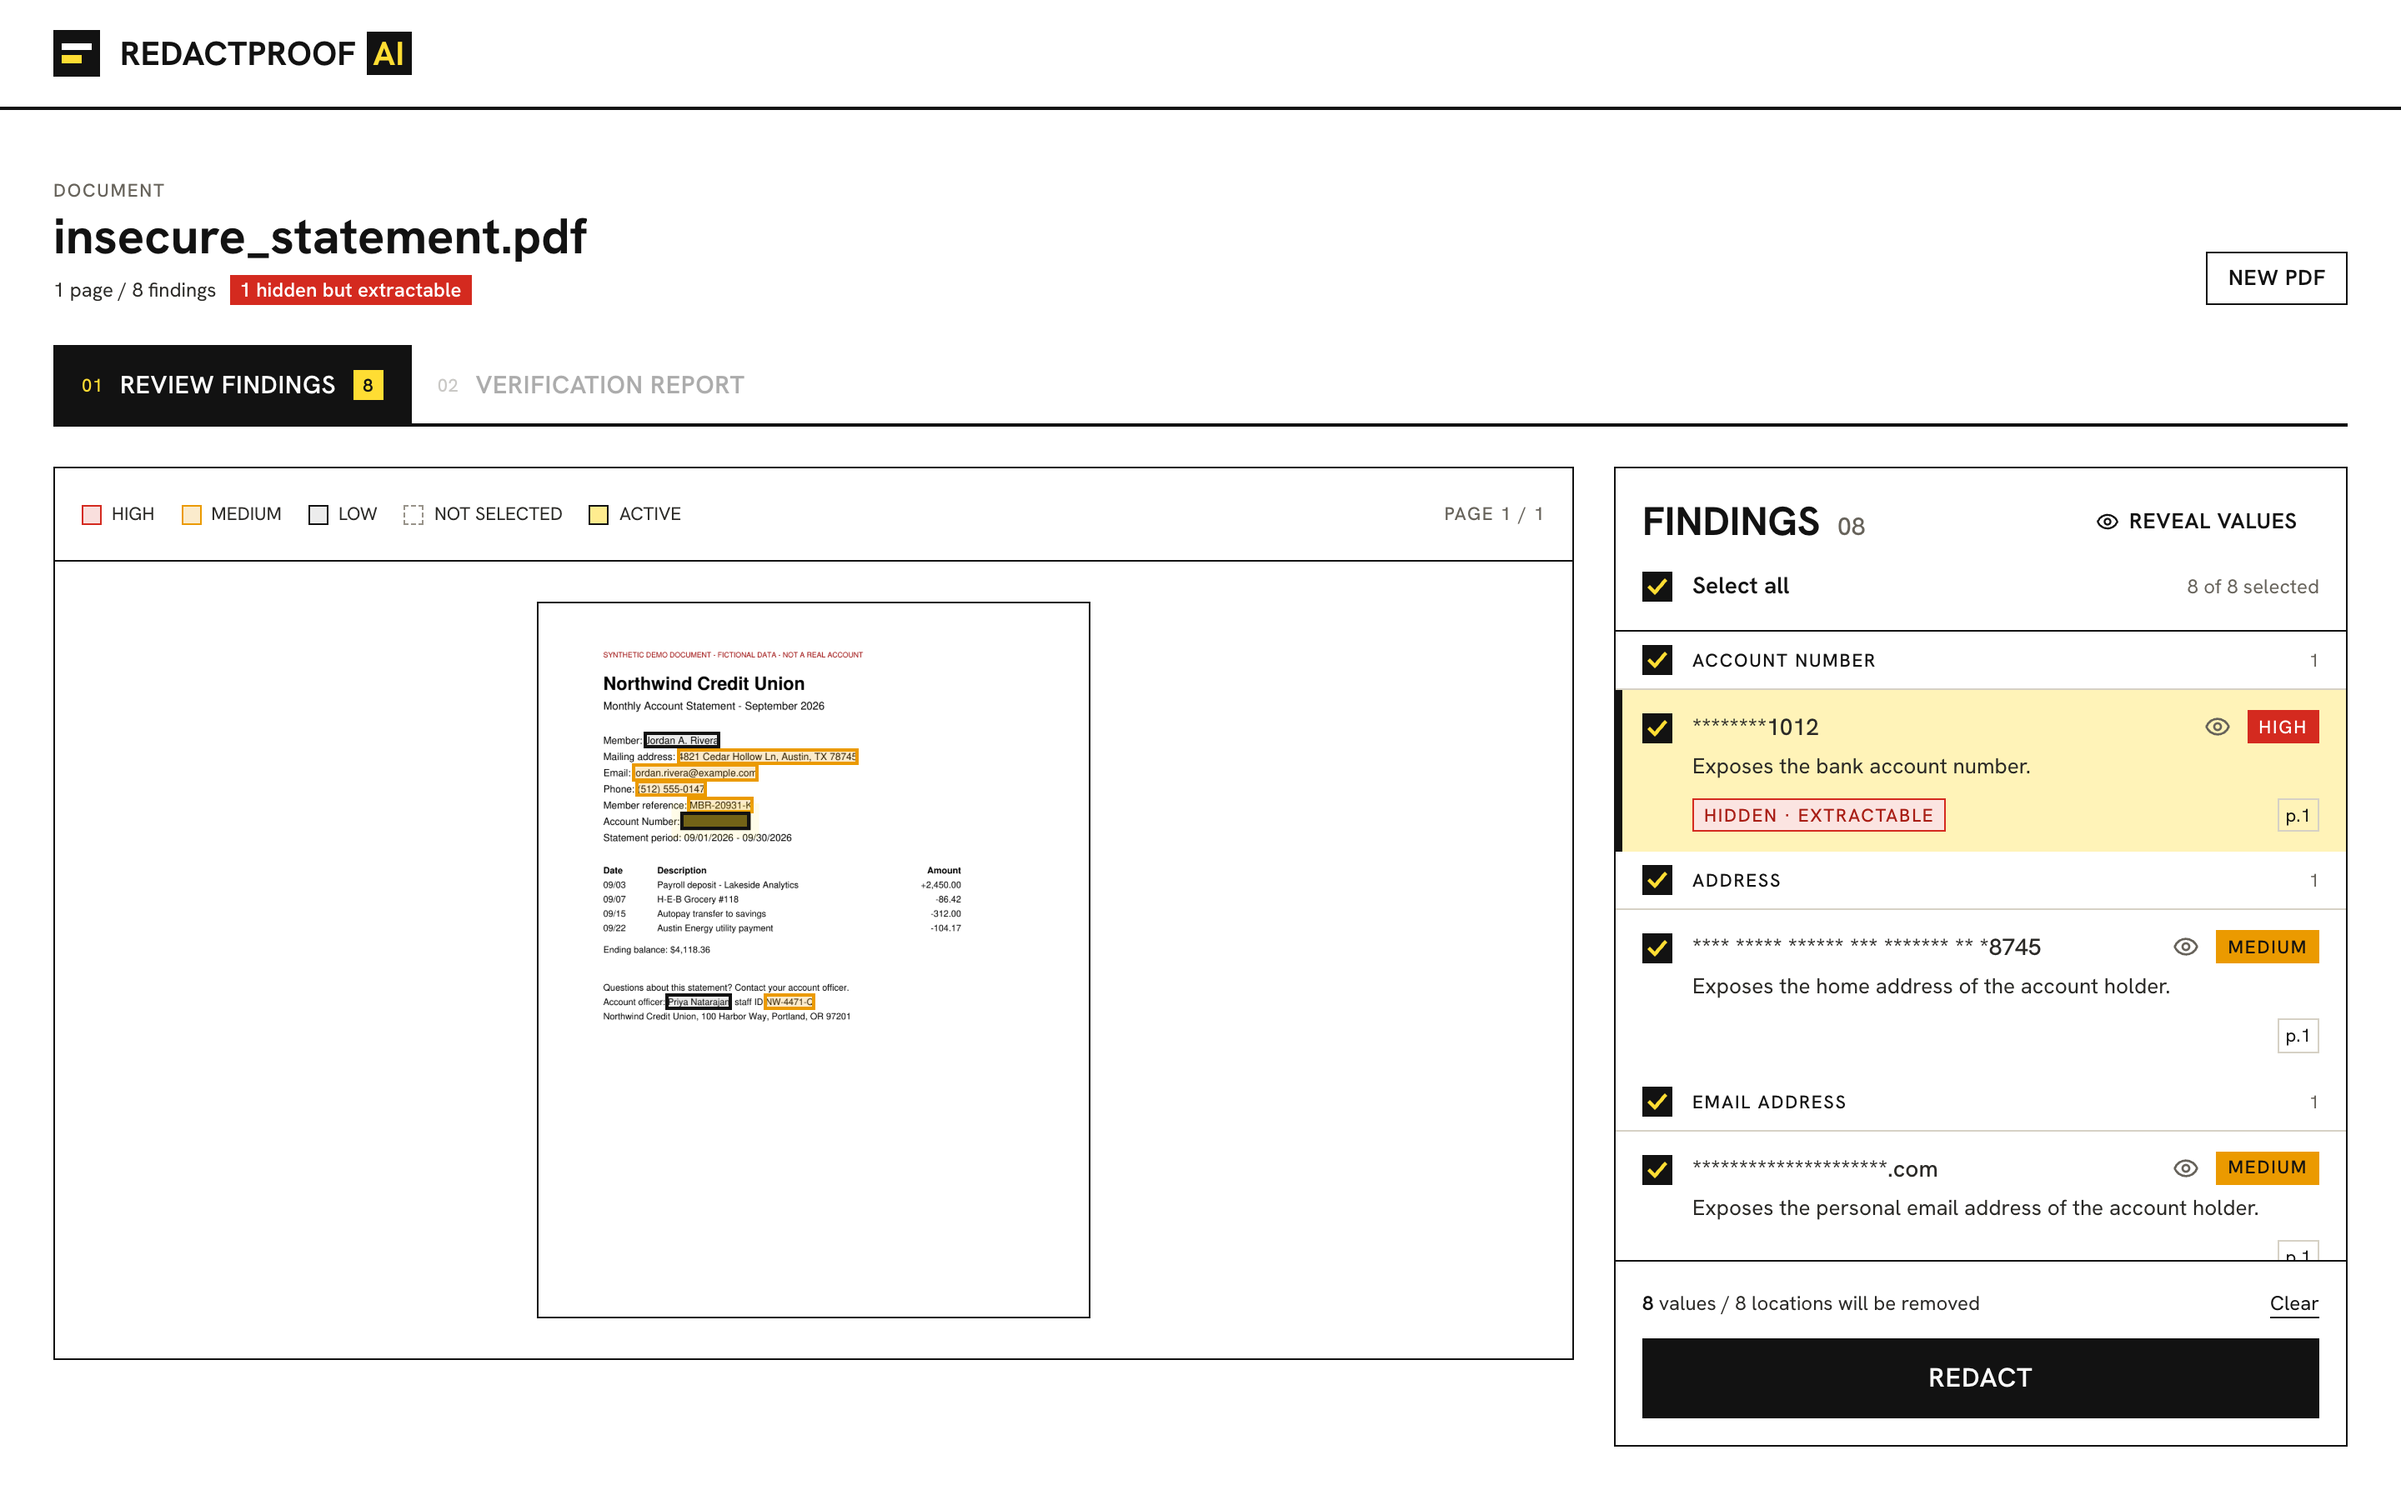
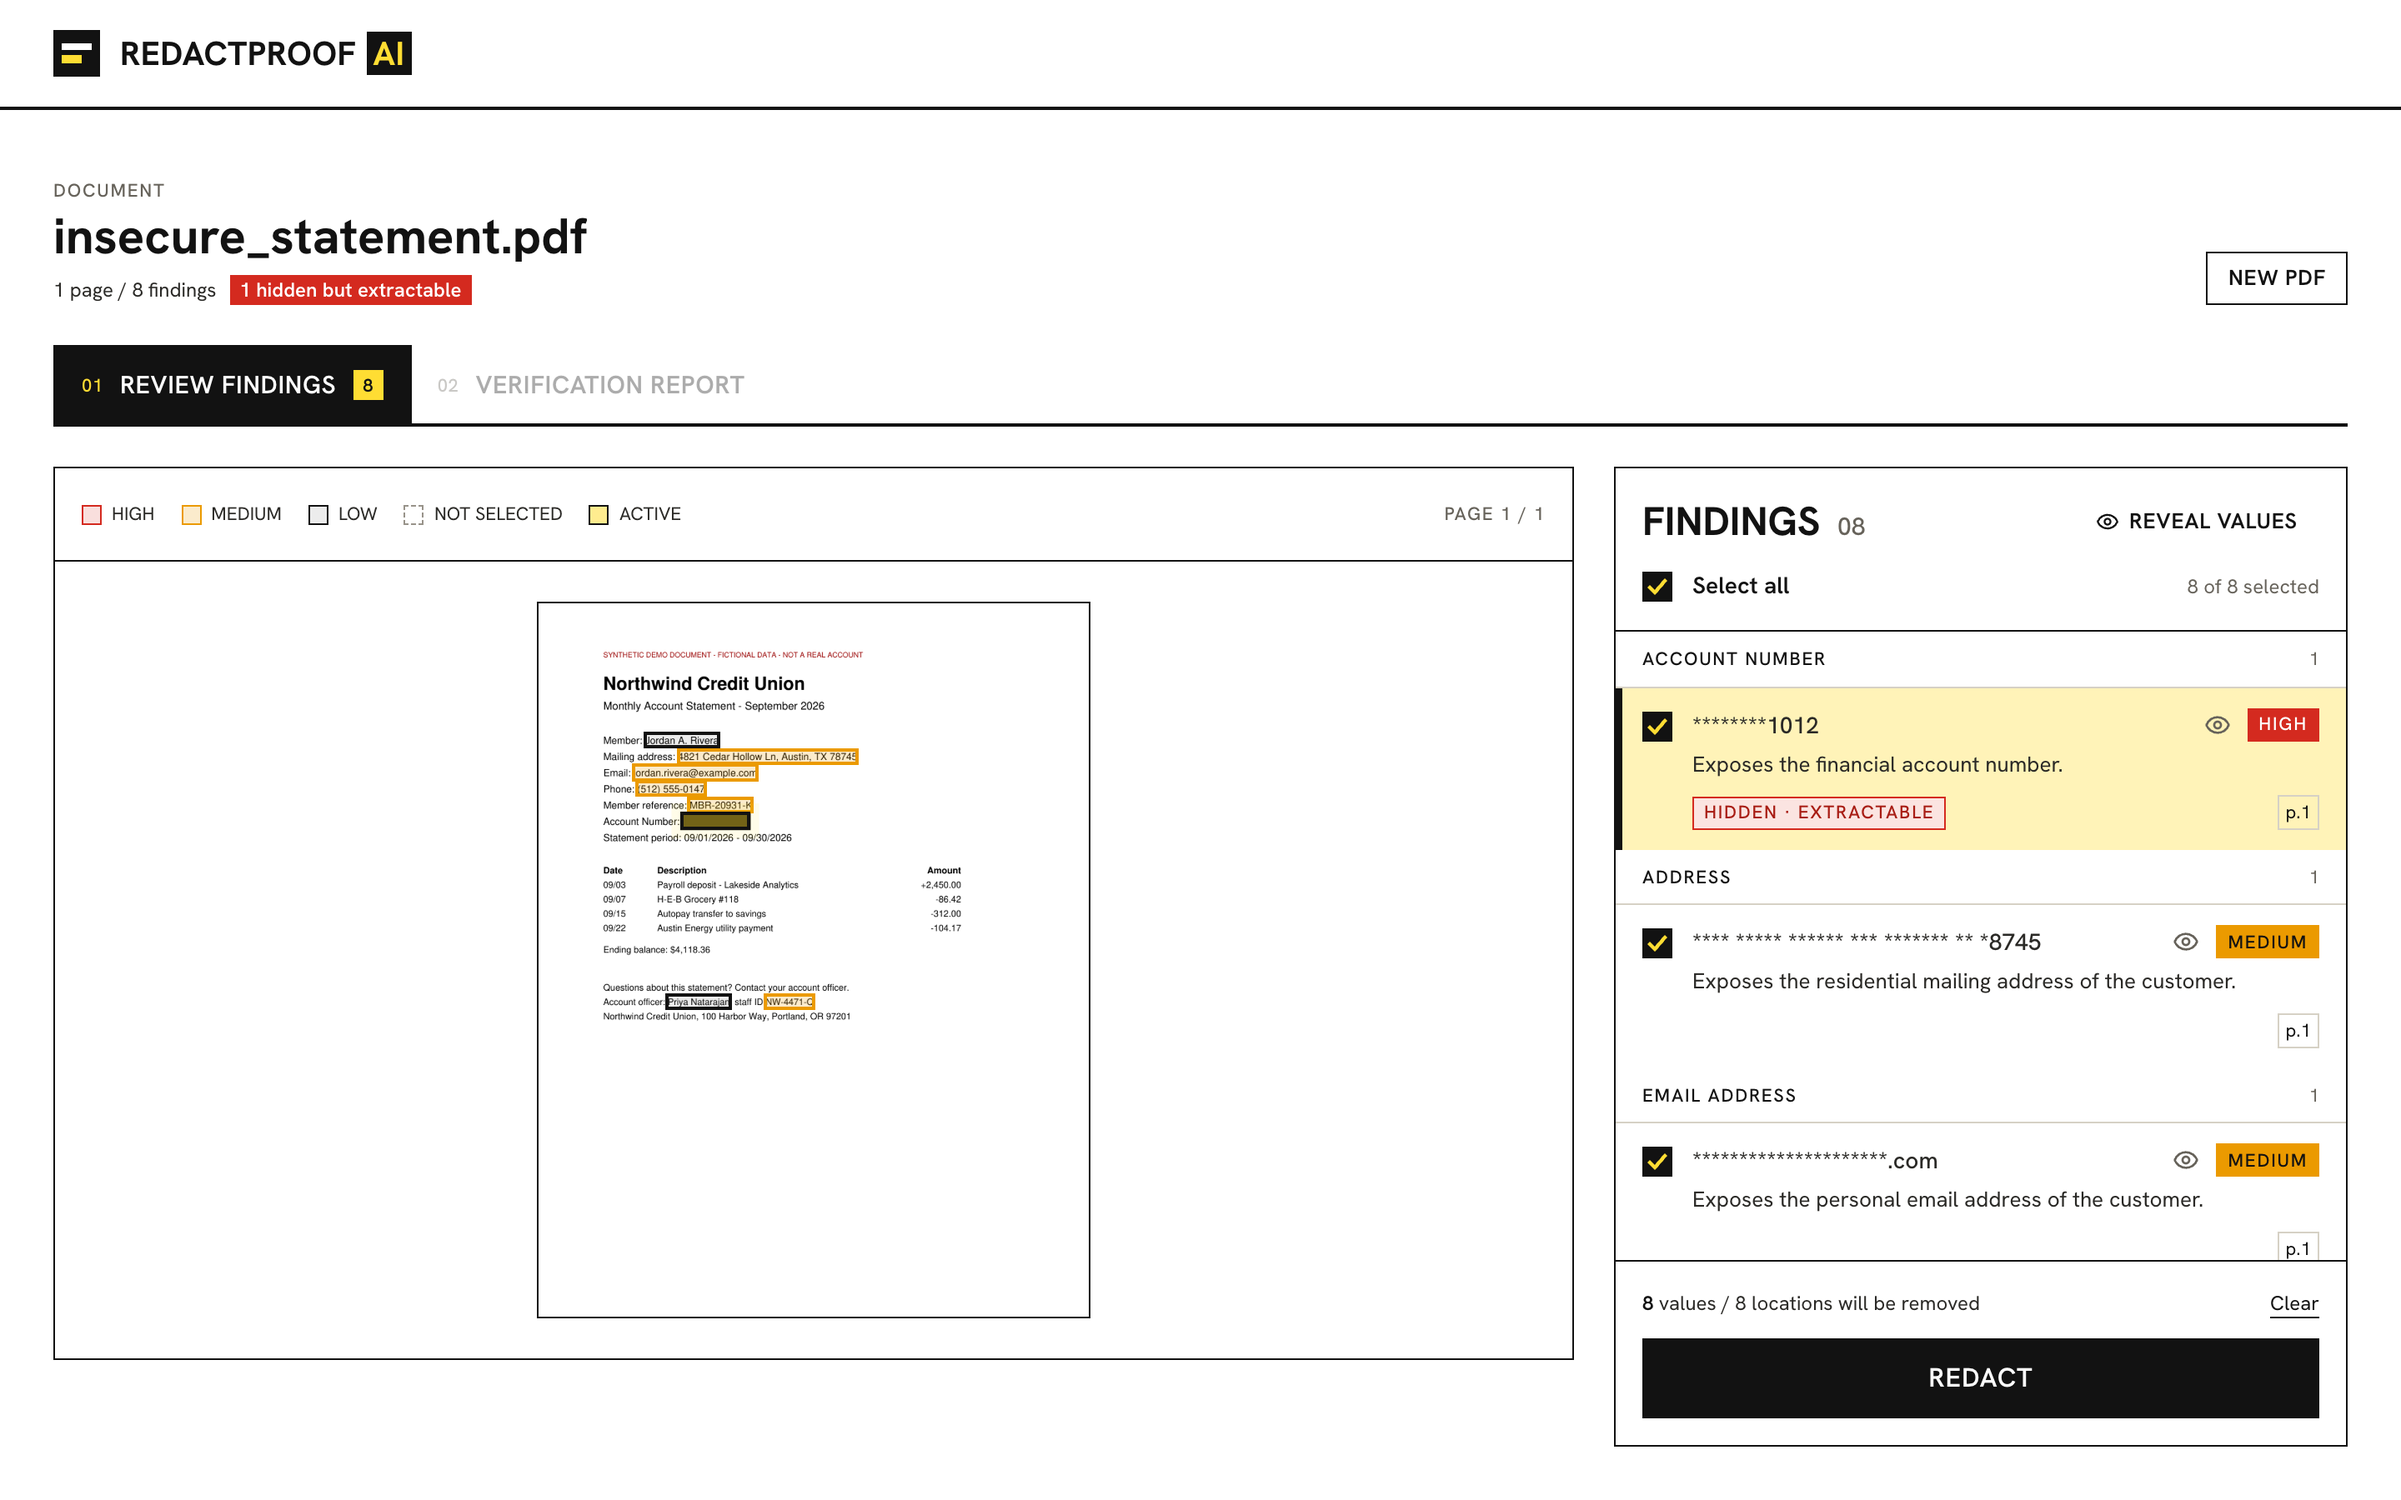
Remove the per-category checkboxes from the findings list
Each finding keeps its own checkbox, and Select all stays at the top.

diff --git a/frontend/src/components/FindingsSidebar.tsx b/frontend/src/components/FindingsSidebar.tsx
@@ -80,40 +80,29 @@ export function FindingsSidebar({ findings, selectedIds, activeId, disabled, onS
             </p>
           </div>
         ) : (
-          groups.map((group) => {
-            const ids = group.findings.map((f) => f.id)
-            const n = ids.filter((id) => selectedIds.has(id)).length
-            return (
-              <div key={group.type}>
-                <div className="sticky top-0 z-10 flex items-center gap-3 border-b border-line bg-surface px-4 py-2">
-                  <Checkbox
-                    checked={n === ids.length}
-                    indeterminate={n > 0 && n < ids.length}
-                    onChange={(checked) => onSelect(ids, checked)}
-                    disabled={disabled}
-                    label={`Select all ${group.label} findings`}
-                  />
-                  <h3 className="tag flex-1 text-ink">{group.label}</h3>
-                  <span className="font-mono text-[11px] text-muted">{ids.length}</span>
-                </div>
-                <ul>
-                  {group.findings.map((f) => (
-                    <FindingCard
-                      key={f.id}
-                      finding={f}
-                      selected={selectedIds.has(f.id)}
-                      active={activeId === f.id}
-                      revealed={revealed.has(f.id)}
-                      disabled={disabled}
-                      onSelect={(checked) => onSelect([f.id], checked)}
-                      onActivate={(page) => onActivate(f.id, page)}
-                      onReveal={() => toggleReveal(f.id)}
-                    />
-                  ))}
-                </ul>
+          groups.map((group) => (
+            <div key={group.type}>
+              <div className="sticky top-0 z-10 flex items-center gap-3 border-b border-line bg-surface px-4 py-2">
+                <h3 className="tag flex-1 text-ink">{group.label}</h3>
+                <span className="font-mono text-[11px] text-muted">{group.findings.length}</span>
               </div>
-            )
-          })
+              <ul>
+                {group.findings.map((f) => (
+                  <FindingCard
+                    key={f.id}
+                    finding={f}
+                    selected={selectedIds.has(f.id)}
+                    active={activeId === f.id}
+                    revealed={revealed.has(f.id)}
+                    disabled={disabled}
+                    onSelect={(checked) => onSelect([f.id], checked)}
+                    onActivate={(page) => onActivate(f.id, page)}
+                    onReveal={() => toggleReveal(f.id)}
+                  />
+                ))}
+              </ul>
+            </div>
+          ))
         )}
       </div>
 
